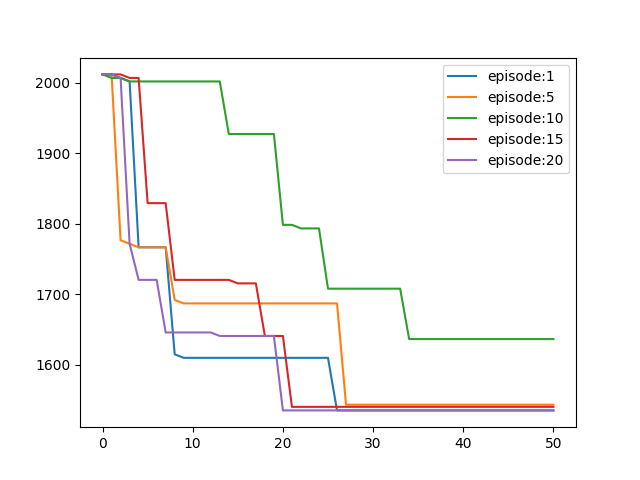
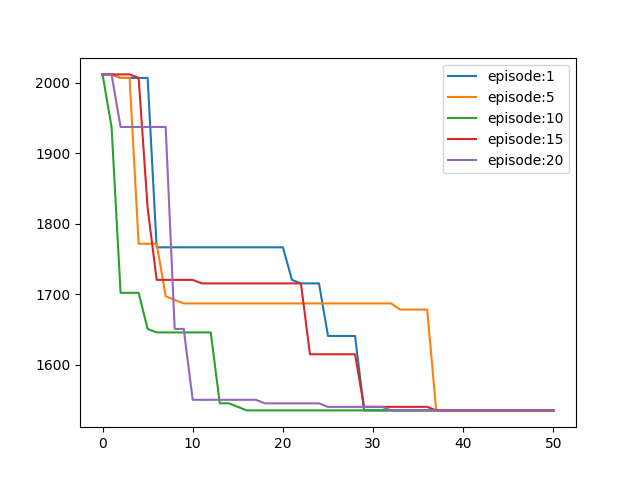
fix bug

diff --git a/placement_rl/placement_agent.py b/placement_rl/placement_agent.py
@@ -159,11 +159,11 @@ class PlacementAgent:
         for r in self.saved_rewards:
             dif = r*10
             latency = init_latency - dif
-            latencys.append(latency)
+            latencys.append(-latency)
             init_latency = latency
 
         for i in range(len(self.saved_rewards)):
-            rk = -sum(latencys[i:])
+            rk = sum(latencys[i:])
 
             if i == 0:
                 bk = latencys[0]
@@ -208,11 +208,11 @@ class PlacementAgent:
         for r in self.saved_rewards:
             dif = r*10
             latency = init_latency - dif
-            latencys.append(latency**(1/2))
+            latencys.append(-latency**(1/2))
             init_latency = latency
 
         for i in range(len(self.saved_rewards)):
-            rk = -sum(latencys[i:])
+            rk = sum(latencys[i:])
 
             if i == 0:
                 bk = latencys[0]
